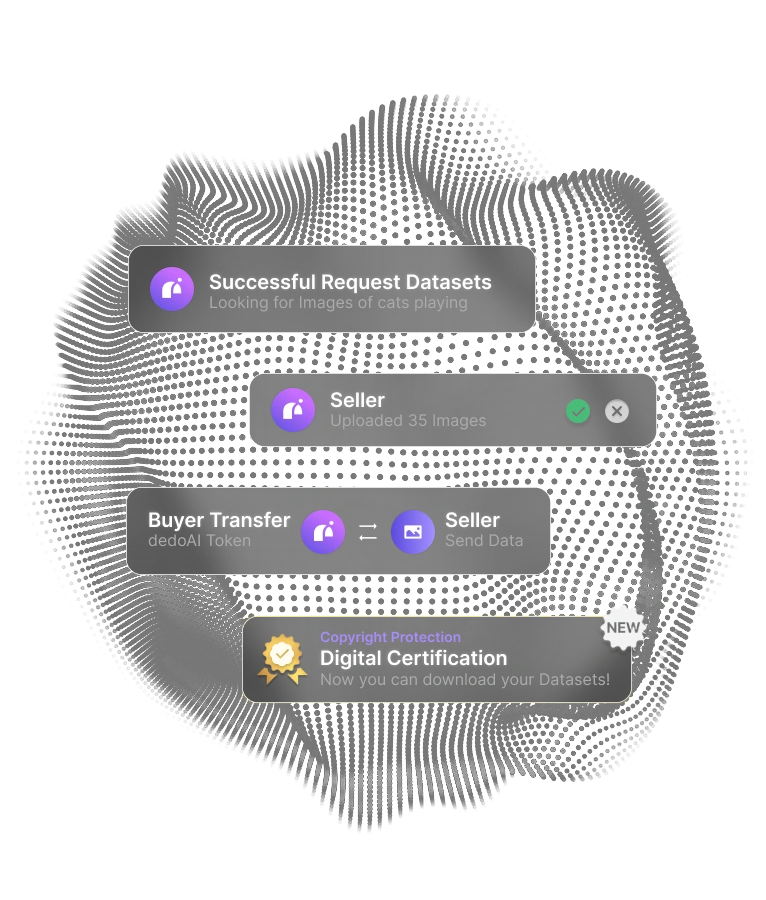
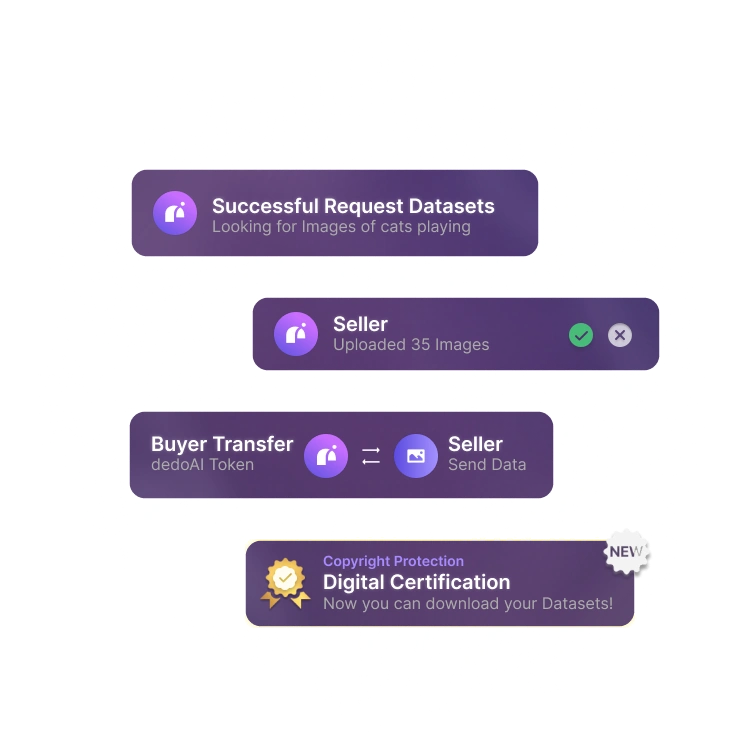
setting home hero

diff --git a/themes/dedoai/layouts/partials/pages/home/hero.html b/themes/dedoai/layouts/partials/pages/home/hero.html
@@ -1,4 +1,54 @@
 {{- $_ := .Page.Params -}}
-<div class="container static">
-    <h2>hero</h2>
+{{ with $_.hero }}
+    {{- $bg_img := resources.Get .bg_img }}
+    {{- $bg_img_url := $bg_img.RelPermalink }}
+    {{- $fg_img := resources.Get .fg_img }}
+    {{- $fg_img_url := $fg_img.RelPermalink }}
+<div id="hero1" class="bg-cover bg-no-repeat h-screen"
+    style="background-image: 
+    linear-gradient( 180deg, rgba(0, 0, 0, 0.00) 79.5%, #171717 94%),
+    linear-gradient( 90deg, rgba(23, 23, 23, 0.47) 0%, rgba(48, 48, 48, 0.00) 51.5%, rgba(23, 23, 23, 0.47) 100%),
+    url('{{ $bg_img_url }}');" >
+    <div class="grd_hldr"></div>
+    <div class="container static">
+
+        <div class="txt_hldr">
+                <div class="title">
+                  <h1>{{ .title | markdownify }}</h1>
+                </div>
+                <div class="text"><p>{{ .text | markdownify }}</p></div>
+                <div class="cta-row">
+                    {{ with .cta }}                        
+                          {{ if .enable }}
+                            <div class="button">
+                                <a class="btn btn-cta bg-cta le"
+                                  href="{{ .link | absURL }}"
+                                  {{ if strings.HasPrefix .link `http` }}
+                                    target="_blank" rel="noopener"
+                                  {{ end }}>
+                                  {{ .label }}
+                                </a>
+                            </div>
+                          {{ end }}
+                    {{ end }}
+                    {{ with .cta_2 }}                       
+                          {{ if .enable }}
+                            <div class="txt-cta">
+                                <a class=""
+                                  href="{{ .link | absURL }}"
+                                  {{ if strings.HasPrefix .link `http` }}
+                                    target="_blank" rel="noopener"
+                                  {{ end }}>
+                                  {{ .label }}
+                                </a>
+                            </div>
+                          {{ end }}
+                    {{ end }}
+                </div>
+            </div>
+            <div class="img_hldr">
+                <img class="side-image" src="{{ $fg_img_url }}">
+            </div>
+    </div>
 </div>
+{{ end }}

diff --git a/assets/scss/custom.scss b/assets/scss/custom.scss
@@ -188,49 +188,68 @@ pre{
 
 // -- HOME --
 
-section#page-header, section#main {
+section#page-header, section#hero {
     margin-top: $u;
     margin-bottom: 0;
 }
 
-section#main.hero {
+section#hero {
+    padding-top: 0;
     margin-top: 0;
 }
 
-section#main.hero .txt_hldr{
-    width:35%;
+section#hero .txt_hldr{
+    position: absolute;
+    width:50%;
+    bottom: $tu;
 }
 
-section#main.hero .subtitle{  
-    color: #EAC7FF;
+section#hero .title h1{  
+    font-size: 96px;
+    font-weight: 600;
+    line-height: 116.18px;
+    color: #FAFAFA;
+    margin-bottom:10px;
 }
 
-section#main.hero .title{  
-    
-}
-
-section#main.hero .text{  
+section#hero .text p{
+    font-size: 24px;
+    font-weight: 400;
+    line-height: 29.05px;
     margin-bottom:40px;
 }
 
-section#main.hero .button{  
-    
+section#hero .text span{
+    font-weight: 600;
 }
 
-section#main.hero .img_hldr {
-    margin-left: 40%;
+section#hero .cta-row{
+    display: flex;
+    align-items: center;
+    gap: 45px;
 }
 
-section#main.hero .img_hldr img{
-    width: 75%;
+section#hero .cta-row a{
+    font-size: 20px;
+    font-weight: 700;
+    line-height: 24.2px;
+}
+
+
+section#hero .img_hldr {
+    position: absolute;
+    width:49%;
+    right: 0;
+    bottom: $tu;
+}
+
+section#hero .img_hldr img{
+    width: 750px;
 }
 
 .btn.btn-cta {
     text-align: center;
-    padding: 17px 27px;
-
-
-
+    padding: 14px 27px;
     width: 240px;
     height: 58px;
 

diff --git a/themes/dedoai/layouts/partials/pages/home/hero_ko.html b/themes/dedoai/layouts/partials/pages/home/hero_ko.html
@@ -9,11 +9,11 @@
     linear-gradient( 180deg, rgba(0, 0, 0, 0.00) 79.5%, #171717 94%),
     linear-gradient( 90deg, rgba(23, 23, 23, 0.47) 0%, rgba(48, 48, 48, 0.00) 51.5%, rgba(23, 23, 23, 0.47) 100%),
     url('{{ $bg_img_url }}');">
-        <div class="grd_hldr"></div.>
+        <div class="grd_hldr"></div>
         <div class="container static">
             <div class="txt_hldr absolute dd-bt-3u">
                 <div class="title">
-                  <h1>{{ .title | markdownify }}</h1h1>
+                  <h1>{{ .title | markdownify }}</h1>
                 </div>
                 <div class="text">{{ .text | markdownify }}</div>
                 <div class="cta-row">

diff --git a/themes/dedoai/layouts/partials/pages/home/members.html b/themes/dedoai/layouts/partials/pages/home/members.html
@@ -1,4 +1,8 @@
 {{- $_ := .Page.Params -}}
+{{ with $_.members }}
 <div class="container">
-    <h2>members</h2>
+    
+   <h2>{{.title}}</h2>
+   
 </div>
+{{end}}

diff --git a/themes/dedoai/layouts/partials/pages/home/roles.html b/themes/dedoai/layouts/partials/pages/home/roles.html
@@ -1,4 +1,8 @@
 {{- $_ := .Page.Params -}}
+{{ with $_.roles }}
 <div class="container">
-    <h2>roles</h2>
+    
+   <h2>{{.title}}</h2>
+   
 </div>
+{{end}}

diff --git a/themes/dedoai/layouts/partials/pages/home/info.html b/themes/dedoai/layouts/partials/pages/home/info.html
@@ -1,4 +1,8 @@
 {{- $_ := .Page.Params -}}
+{{ with $_.info }}
 <div class="container">
-    <h2>info</h2>
+    
+   <h2>{{.title}}</h2>
+   
 </div>
+{{end}}

diff --git a/content/en/_index.md b/content/en/_index.md
@@ -4,10 +4,9 @@ meta_title: "dedo AI | Home meta title"
 description: "this is meta description"
 draft: false
 
-# Banner
 hero:
   bg_img: "/images/home/home-hero-bg-1.webp"
-  title: "Decentralizing  <br>Datafor a Better  <br>Tomorrow"
+  title: "Decentralizing  <br>Data for a Better  <br>Tomorrow"
   sub_title: "A secure platform for easily buying, selling, and trading data."
   text: "Transforming Data with Blockchain: <br><span>Secure, Accessible, and Creator-Owned</spam>"
   fg_img: "/images/home/home-right-elements-1.webp"
@@ -94,8 +93,8 @@ members:
 
 ---
 {{< wrap >}}
-{{< section "home/hero" "main" "pt-0 hero" >}}
-{{< section "home/roles" >}}
-{{< section "home/info" >}}
-{{< section "home/members" >}}
+{{< section "home/hero">}}
+{{< section "home/roles">}}
+{{< section "home/info">}}
+{{< section "home/members">}}
 {{< /wrap >}}
